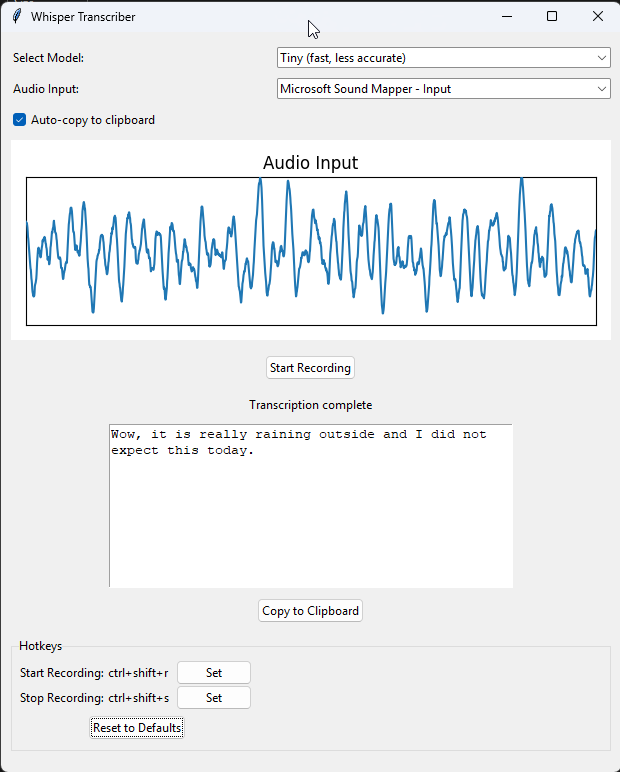
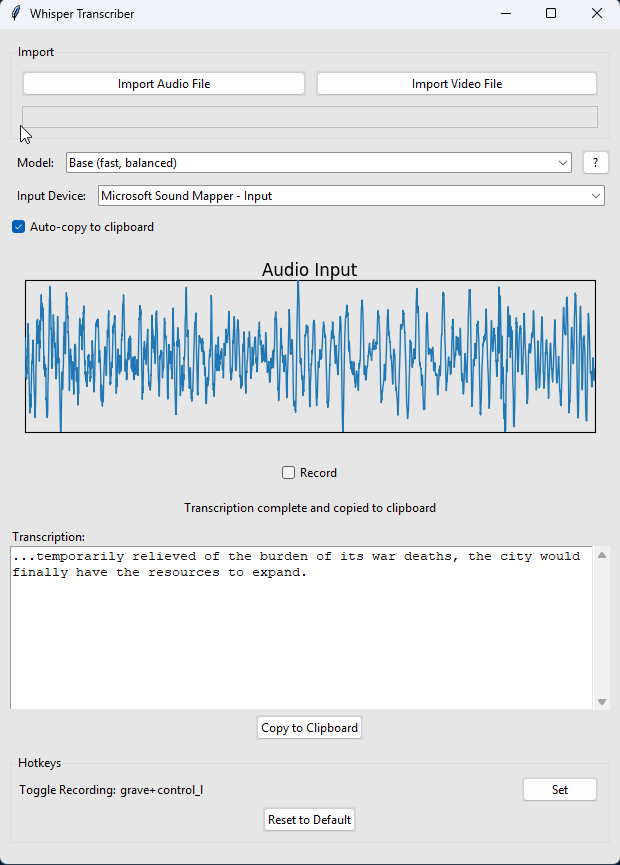
start minimized working better, layout is now responsive

diff --git a/README.md b/README.md
@@ -3,3 +3,15 @@ A python program with a gui interface that allows you to start/stop audio record
 
 # Main program
 ![App Screenshot](Images/app_screenshot.png)
+
+# Task Tray
+![Task Tray](Images/task_tray_options.png)
+
+# Not Recording Icon
+![Not Recording Icon](Images/tray_icon_not_recording.png)
+
+# Processing Recording Icon
+![Processing Recording Icon](Images/tray_icon_processing.png)
+
+# Recording Icon
+![Recording Icon](Images/tray_icon_recording.png)
